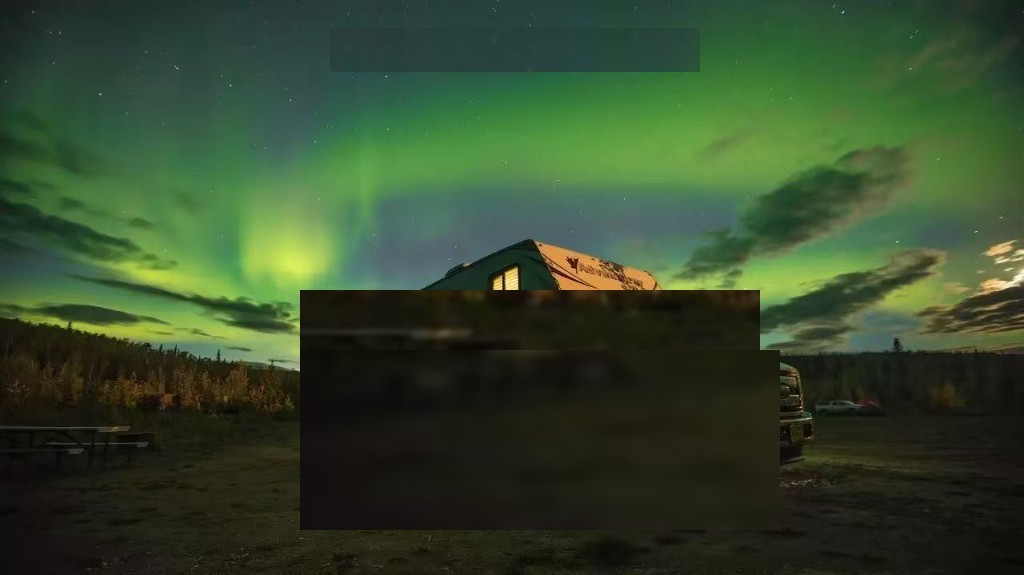
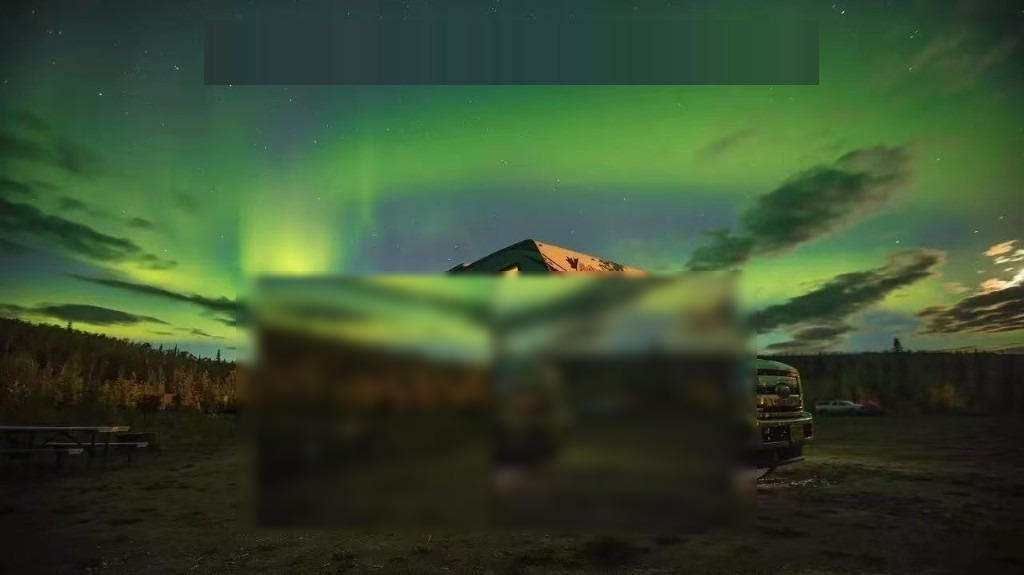
fix(intro): 彻底修复抠车 + 涂掉背景原车 + 加呼吸灯 + 调比例
1. u2net 重新抠车 + 暗色像素清理，彻底去除方形黑块残影
2. 背景 aurora-camp.jpg 涂掉原图露营车，避免穿帮
3. 车尺寸缩小到 48vw 匹配原图比例，不再撑满屏幕
4. 移除电流光效果（用户明确不要）
5. 新增 CSS 车灯呼吸闪烁动画（用户明确保留）

diff --git a/src/styles.css b/src/styles.css
@@ -838,20 +838,36 @@ body::before {
   100% { transform: scale(1.12) translate(2%, 1%); opacity: 0.28; }
 }
 
-/* 氢车盖住背景原图里的卡车：放大、居中偏右下（对齐原图卡车位置） */
+/* 氢车：匹配原图露营车比例，居中偏左下 */
 .intro-hero-truck {
   position: absolute;
   left: 50%;
-  bottom: 4%;
-  width: min(72vw, 920px);
-  transform: translateX(-46%);
+  bottom: 8%;
+  width: min(48vw, 580px);
+  transform: translateX(-50%);
   z-index: 2;
   pointer-events: none;
 }
 .intro-hero-truck img {
   width: 100%; height: auto;
   display: block;
-  filter: drop-shadow(0 12px 32px rgba(0, 0, 0, 0.6));
+  filter: drop-shadow(0 8px 24px rgba(0, 0, 0, 0.5));
+}
+/* 车灯呼吸闪烁 */
+.intro-hero-truck::after {
+  content: '';
+  position: absolute;
+  right: 6%; bottom: 32%;
+  width: 18px; height: 14px;
+  border-radius: 50%;
+  background: radial-gradient(ellipse, rgba(255,245,200,0.9) 0%, rgba(255,245,200,0) 70%);
+  box-shadow: 0 0 12px 4px rgba(255,245,200,0.4);
+  animation: headlight-breath 3.2s ease-in-out infinite;
+  pointer-events: none;
+}
+@keyframes headlight-breath {
+  0%, 100% { opacity: 0.3; transform: scale(0.8); }
+  50% { opacity: 0.85; transform: scale(1.1); }
 }
 
 /* 品牌层：官方 logo 原图直接贴，不再重绘字体 */
